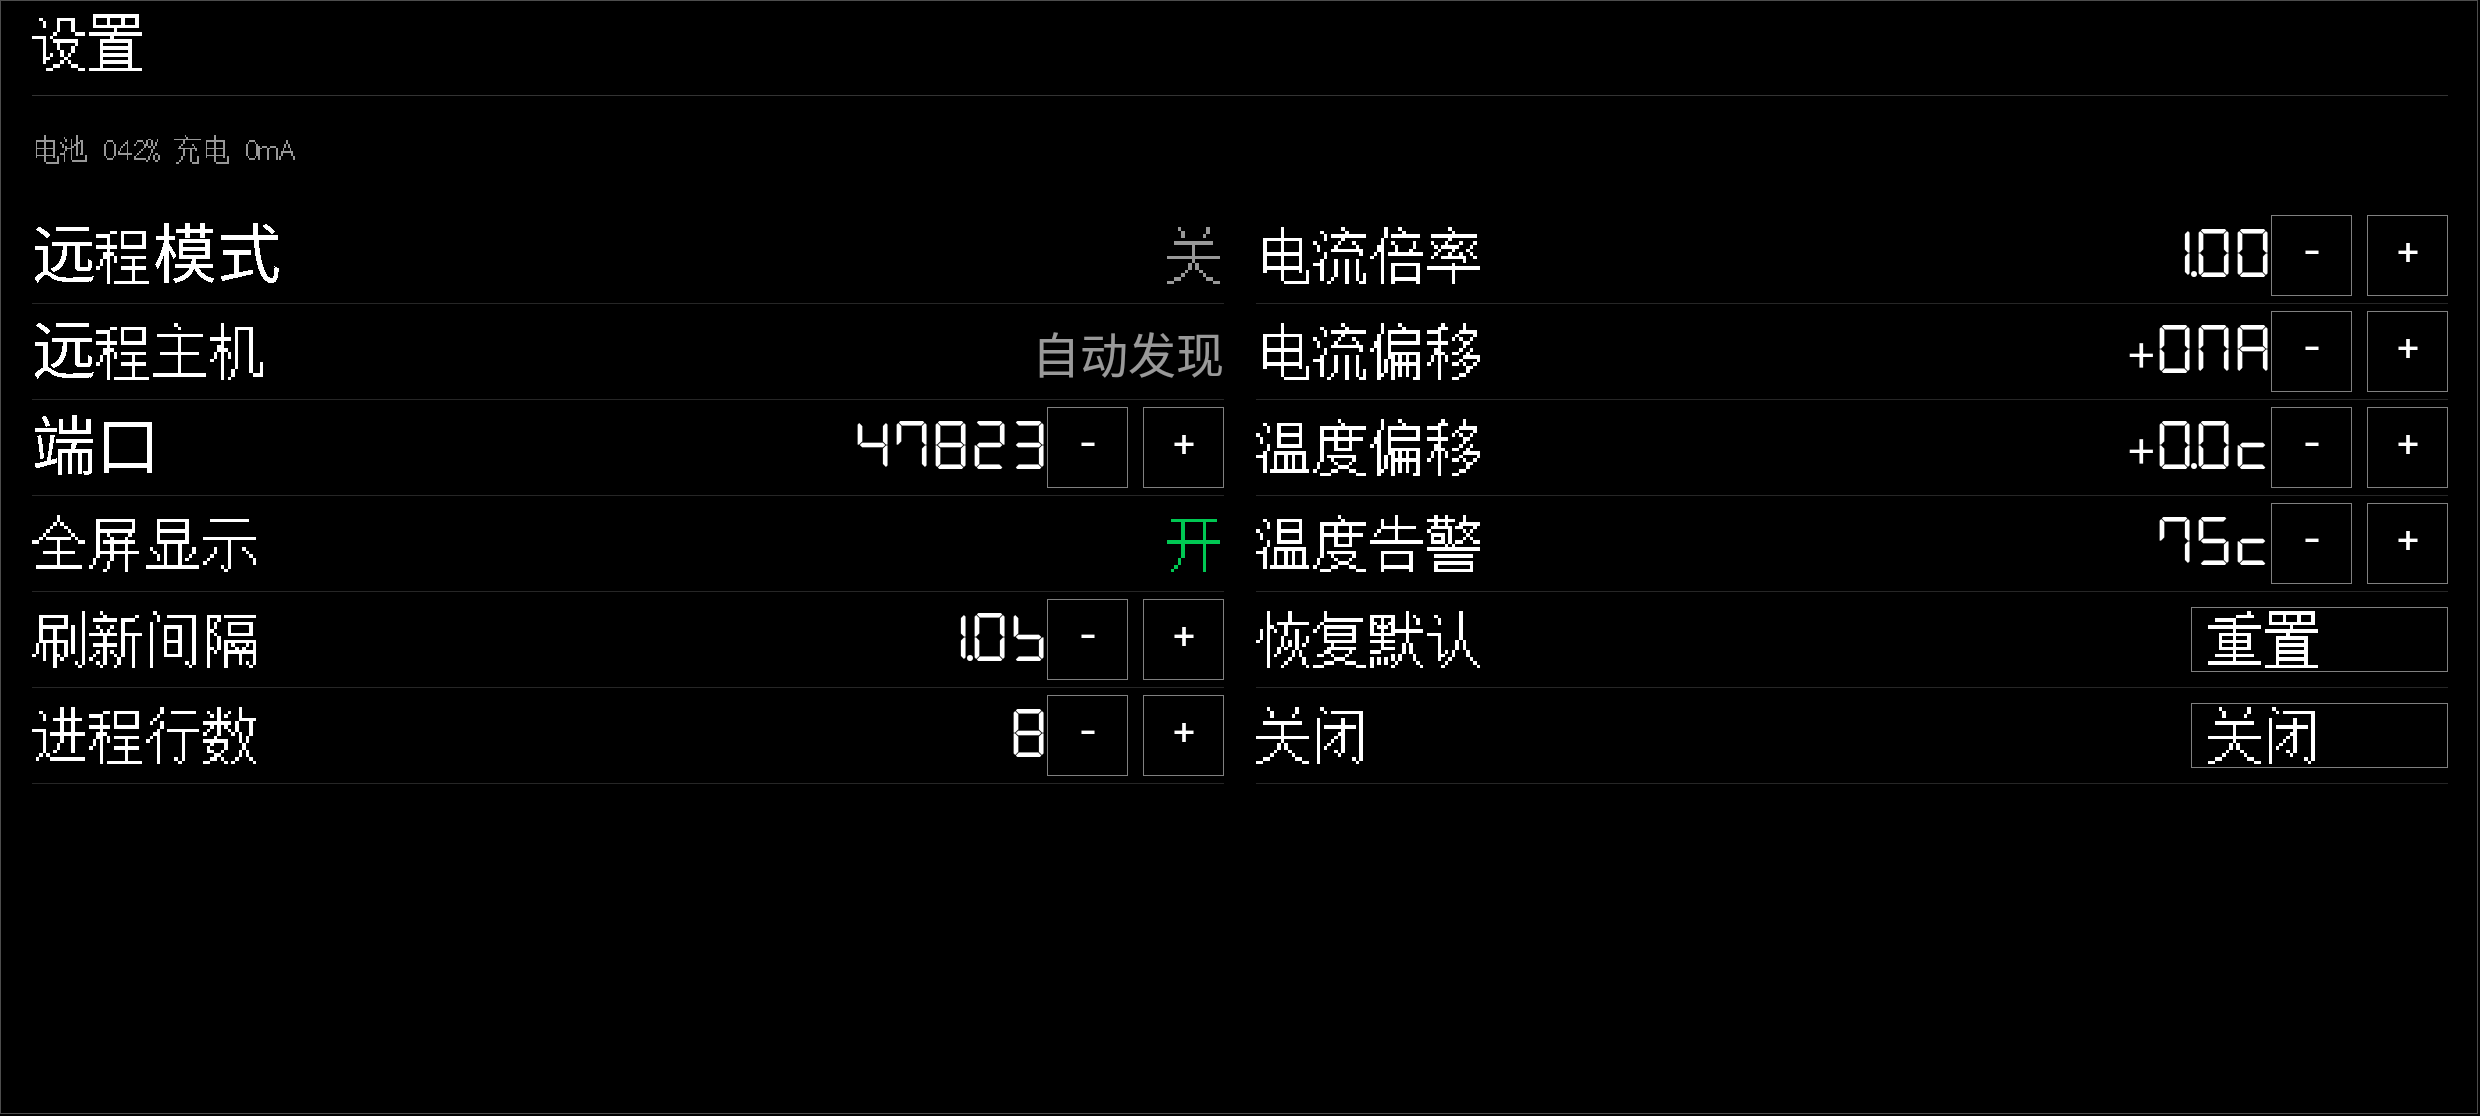
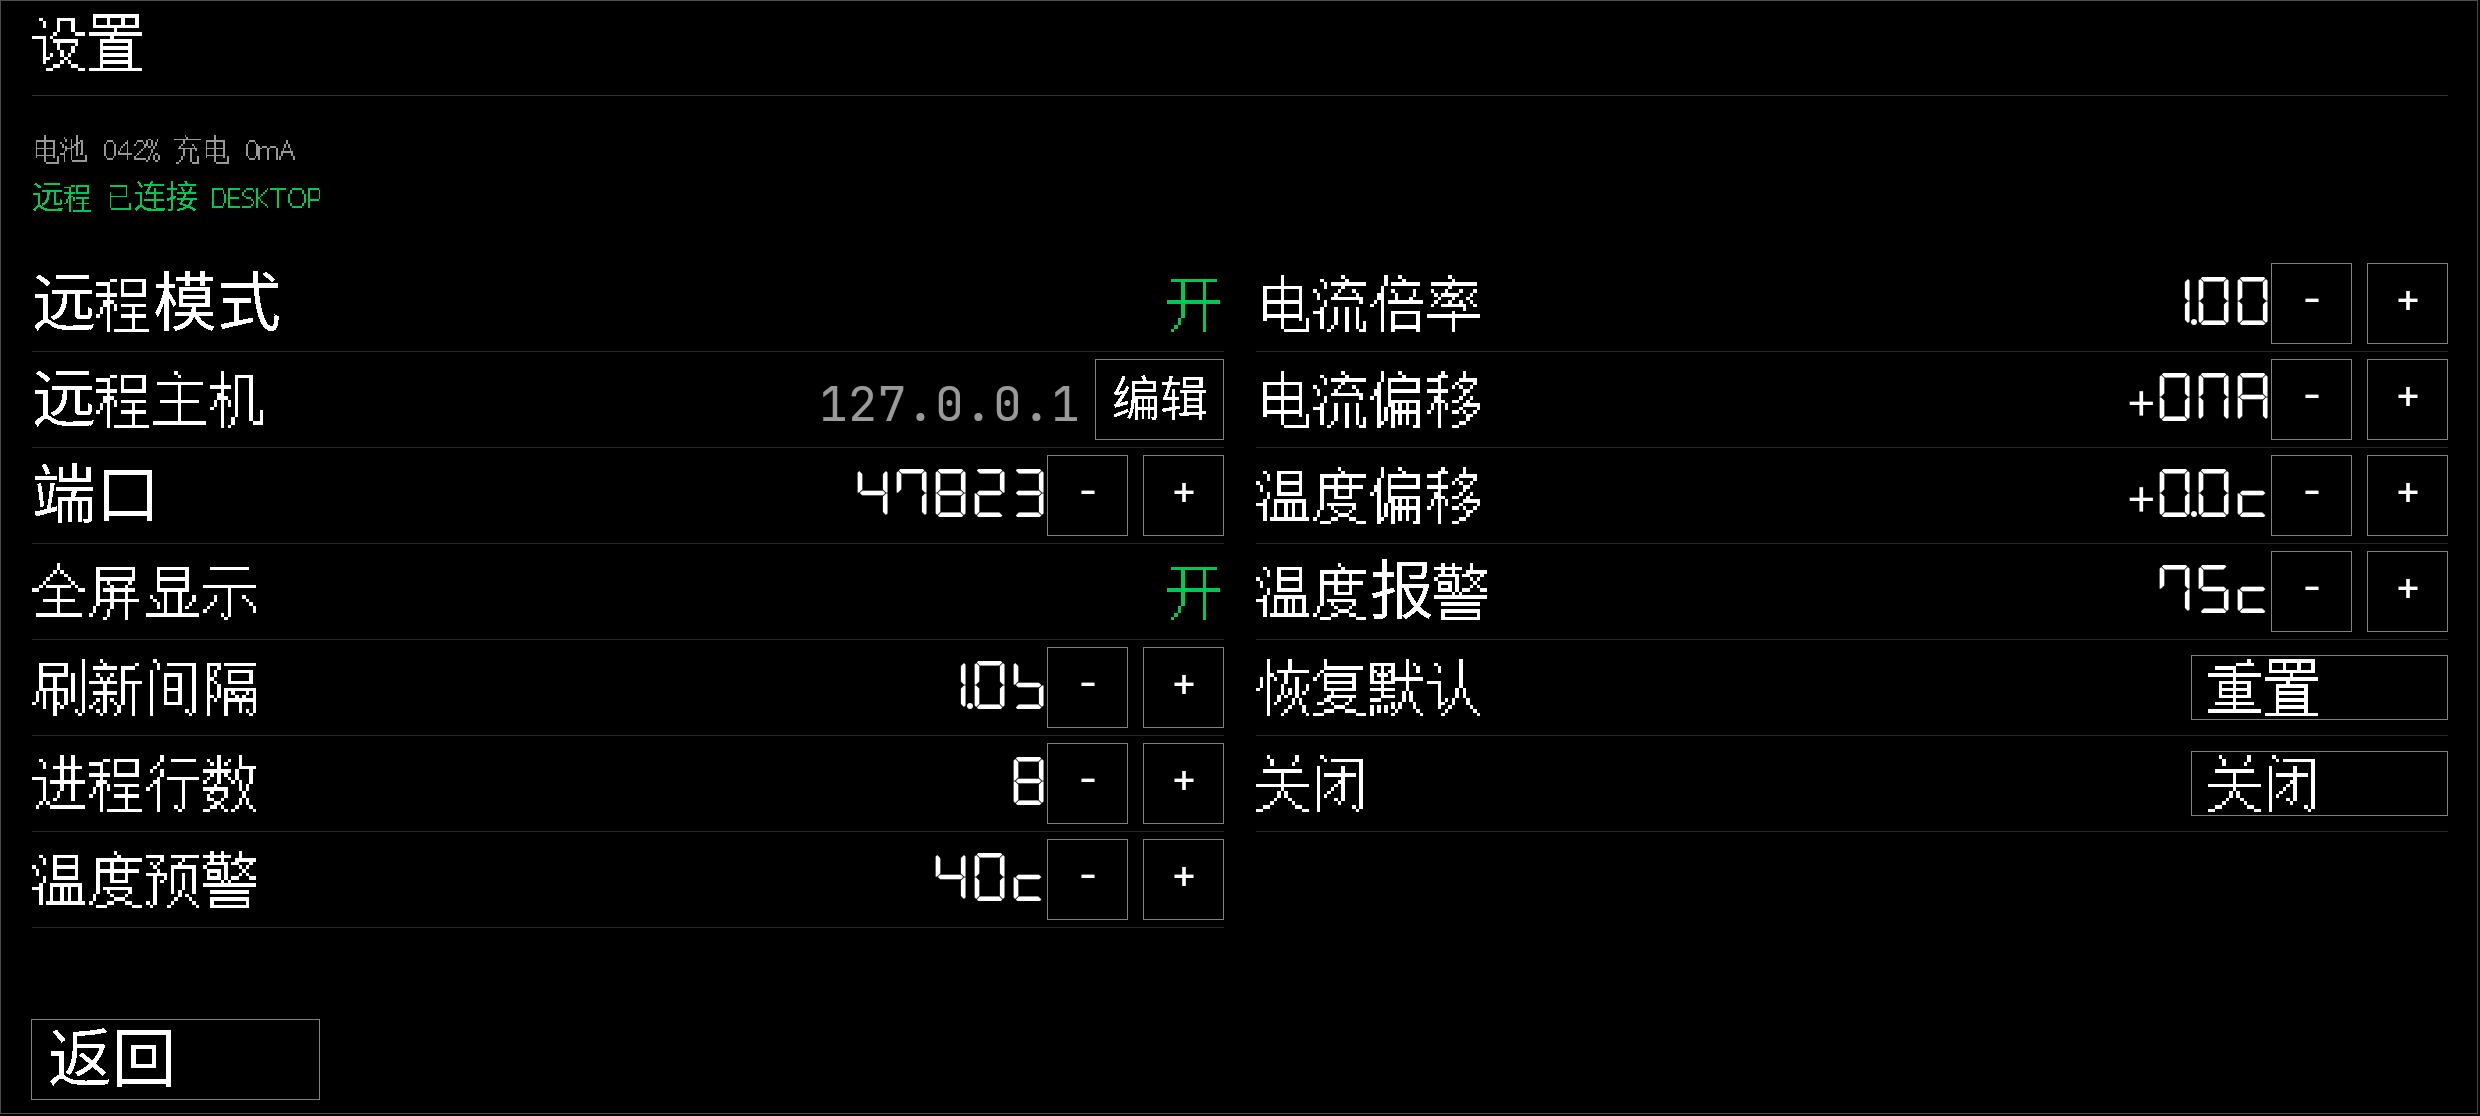
Latest remote panel, amber warning and settings captures

diff --git a/README.md b/README.md
@@ -13,7 +13,8 @@ specimens. The implementation lives in the PANELINK Android project.
 - Digits use DSEG7; Latin labels use JetBrains Mono; Chinese uses **WenQuanYi Bitmap
   Song 16px** at integer pixel multiples (16/32/48).
 - Status colours: OK `#00C853`, caution `#FFB000`, fault `#FF1744`.
-- Fault state blinks continuously with a 0.5 s phase.
+- Temperature warning uses amber `#FFB000`; alarm uses red `#FF1744`; both thresholds
+  are adjustable. Fault state blinks continuously with a 0.5 s phase.
 - Numeric columns are fixed and right-aligned so changing digit count never shifts
   neighbouring controls.
 
